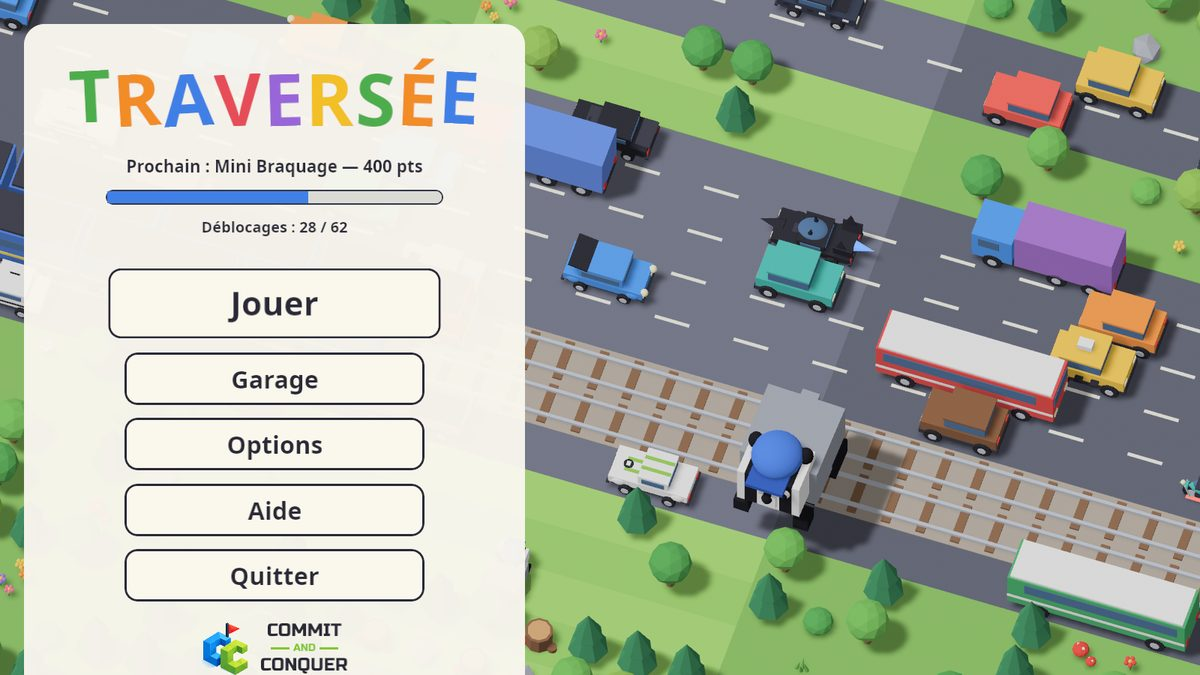
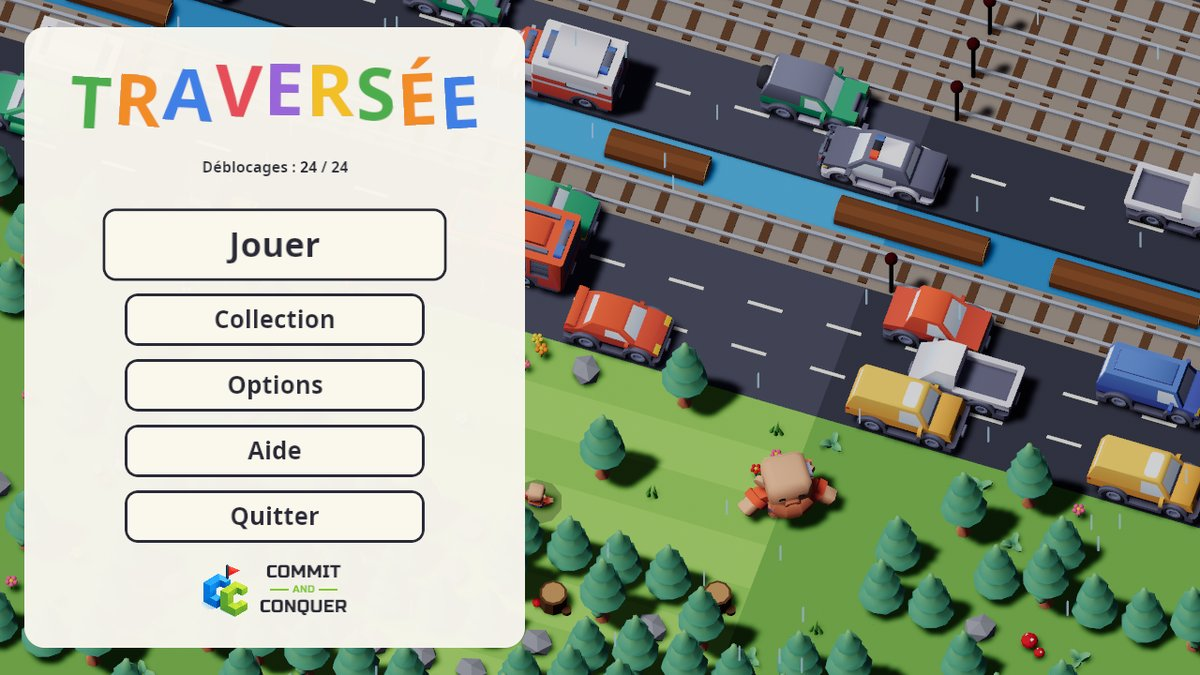
Site : captures de Traversée refaites avec le nouveau rendu (Kenney) ; fiche à jour (Collection, cadeaux, 5 mondes)

diff --git a/site/content/jeux/traversee.md b/site/content/jeux/traversee.md
@@ -1,7 +1,7 @@
 +++
 title = "Traversée"
 weight = 2
-description = "Aidez le crapaud à traverser routes, rivières et voies ferrées… et débloquez tout un garage."
+description = "Aidez votre personnage à traverser routes, rivières et voies ferrées… et remplissez votre collection."
 [extra]
 web = true
 univers = "croa"
@@ -12,38 +12,38 @@ commandes = ["Flèches ou ZQSD, Espace ou clic : avancer", "Tactile : glisser du
 chiffres = [
   { n = "11", t = "véhicules à débloquer" },
   { n = "8", t = "personnages" },
-  { n = "7", t = "accessoires" },
+  { n = "5", t = "mondes" },
   { n = "5", t = "façons de mourir" },
 ]
 captures = [
-  { img = "menu", t = "Le menu, vivant et animé" },
+  { img = "menu", t = "Le menu, avec son personnage qui saute" },
   { img = "route", t = "Routes, rivières, voies ferrées" },
   { img = "ecrase", t = "Chaque mort a son effet, avec zoom et ralenti" },
   { img = "noye", t = "Plouf !" },
-  { img = "mouche", t = "Gober une mouche : points bonus" },
-  { img = "garage", t = "Le garage : des véhicules à débloquer" },
-  { img = "personnages", t = "8 personnages" },
-  { img = "accessoires", t = "7 accessoires" },
-  { img = "costume", t = "En costume, c'est mieux" },
+  { img = "cadeau", t = "Un cadeau qui brille : points bonus" },
+  { img = "ennemis", t = "La Collection : les ennemis à débloquer" },
+  { img = "decors", t = "La Collection : les décors" },
+  { img = "personnages", t = "La Collection : les personnages" },
+  { img = "pirates", t = "La baie des pirates : canons, tonneaux et palmiers" },
+  { img = "halloween", t = "Halloween : cimetière et morts-vivants" },
+  { img = "moyenage", t = "Le Moyen Âge : machines de siège et tours" },
+  { img = "espace", t = "L'espace : vaisseaux, météorites et plateformes" },
 ]
 +++
 
-**Traversée** est un jeu de franchissement en 3D low-poly : un crapaud, des routes, des rivières, des voies ferrées, et une caméra qui avance toute seule. Allez le plus loin possible… sans traîner !
+**Traversée** est un jeu de franchissement en 3D low-poly : un personnage, des routes, des rivières, des voies ferrées, et une caméra qui avance toute seule. Allez le plus loin possible… sans traîner !
 
 ## Un monde qui se découvre
-Au début, la route est calme : quelques voitures, un peu d'herbe. À mesure que vos **points s'accumulent d'une partie à l'autre**, le jeu s'enrichit : camions, taxis, motos, bus, trains, mouches dorées, puis un **aigle** qui balaie une colonne entière. Tout se débloque : véhicules, personnages, accessoires.
+Au début, la route est calme : quelques voitures, un peu d'herbe. À mesure que vos **points s'accumulent d'une partie à l'autre**, le jeu s'enrichit : camions, taxis, motos, bus, trains, cadeaux dorés, puis un **aigle** qui balaie une colonne entière. Tout se débloque : ennemis, mondes, personnages.
 
-## Un garage à remplir
-Du taxi citron au tracteur, en passant par le bus rigolo et le train : chaque véhicule a un **nom bien à lui** et apparaît en ombre tant qu'il n'est pas gagné.
-
-## Personnages et accessoires
-Crapaud, lapin, blaireau, raton laveur, hérisson, renard, panda, canard : **8 personnages** à débloquer, puis **7 accessoires** (casquette, lunettes, haut-de-forme, chapeau de pirate, couronne, chapeau de fête, chapeau de magicien) pour les habiller.
+## Une collection à remplir
+Trois vitrines : les **ennemis** (du taxi citron au zombie, en passant par la catapulte et le vaisseau), les **décors** (prairie, baie des pirates, Halloween, Moyen Âge, espace) et les **personnages** : Léo, Lola, Gaston, Zoé, Hugo, Jade, Théo et Mila. Chacun apparaît en ombre tant qu'il n'est pas gagné.
 
 ## Des morts spectaculaires
 Écrasé, noyé, emporté par le courant, trop lent, enlevé par l'aigle : chaque fin a son effet, avec **zoom avant, ralenti, tremblement d'écran** et petits morceaux de décor qui volent.
 
 ## Et aussi
-Des mouches à gober pour des points bonus (les dorées valent bien plus), des fleurs, des rondins et des nénuphars, des rivières toujours franchissables, une annonce à chaque déblocage et un écran de fin qui compte vos points et votre record.
+Des **cadeaux qui brillent** à ramasser pour des points bonus (les dorés valent bien plus), des rondins, des radeaux et des nénuphars, des rivières toujours franchissables, une annonce à chaque déblocage et un écran de fin qui compte vos points et votre record.
 
 ## Nouveau look
-Le jeu se refait avec les superbes modèles **CC0 de Kenney** (voitures, arbres, personnages animés). La prairie, la **baie des pirates**, **Halloween** et le **Moyen Âge** sont déjà refaits ; les autres mondes reviendront un par un.
+Le jeu se refait avec les superbes modèles **CC0 de Kenney** (voitures, arbres, personnages animés). La prairie, la **baie des pirates**, **Halloween**, le **Moyen Âge** et l'**espace** sont déjà refaits ; les autres mondes reviendront un par un.

diff --git a/site/content/jeux/traversee.en.md b/site/content/jeux/traversee.en.md
@@ -1,7 +1,7 @@
 +++
 title = "Crossing"
 weight = 2
-description = "Help the toad cross roads, rivers and railways… and unlock a whole garage."
+description = "Help your character cross roads, rivers and railways… and fill your collection."
 [extra]
 web = true
 univers = "croa"
@@ -12,38 +12,38 @@ commandes = ["Arrow keys or WASD, Space or click: hop", "Touch: swipe", "M: soun
 chiffres = [
   { n = "11", t = "vehicles to unlock" },
   { n = "8", t = "characters" },
-  { n = "7", t = "accessories" },
+  { n = "5", t = "worlds" },
   { n = "5", t = "ways to lose" },
 ]
 captures = [
-  { img = "menu", t = "The animated menu" },
+  { img = "menu", t = "The menu, with its jumping character" },
   { img = "route", t = "Roads, rivers and railways" },
   { img = "ecrase", t = "Every death has its own effect, with zoom and slow-mo" },
   { img = "noye", t = "Splash!" },
-  { img = "mouche", t = "Catch a fly for bonus points" },
-  { img = "garage", t = "The garage: vehicles to unlock" },
-  { img = "personnages", t = "8 characters" },
-  { img = "accessoires", t = "7 accessories" },
-  { img = "costume", t = "Looking sharp in a costume" },
+  { img = "cadeau", t = "A glowing gift: bonus points" },
+  { img = "ennemis", t = "The Collection: enemies to unlock" },
+  { img = "decors", t = "The Collection: scenery" },
+  { img = "personnages", t = "The Collection: characters" },
+  { img = "pirates", t = "Pirate bay: cannons, barrels and palm trees" },
+  { img = "halloween", t = "Halloween: graveyard and undead" },
+  { img = "moyenage", t = "The Middle Ages: siege engines and towers" },
+  { img = "espace", t = "Space: ships, meteors and platforms" },
 ]
 +++
 
-**Crossing** is a low-poly 3D crossing game: a toad, roads, rivers, railways, and a camera that moves on its own. Go as far as you can… and don't dawdle!
+**Crossing** is a low-poly 3D crossing game: a character, roads, rivers, railways, and a camera that moves on its own. Go as far as you can… and don't dawdle!
 
 ## A world you uncover
-At first the road is quiet: a few cars, some grass. As your **points add up from game to game**, the game grows: trucks, taxis, motorbikes, buses, trains, golden flies, then an **eagle** sweeping a whole column. Everything unlocks: vehicles, characters, accessories.
+At first the road is quiet: a few cars, some grass. As your **points add up from game to game**, the game grows: trucks, taxis, motorbikes, buses, trains, golden gifts, then an **eagle** sweeping a whole column. Everything unlocks: enemies, worlds, characters.
 
-## A garage to fill
-From the lemon cab to the tractor, via the jolly bus and the train: every vehicle has its **own name** and shows as a silhouette until you win it.
-
-## Characters and accessories
-Toad, rabbit, badger, raccoon, hedgehog, fox, panda, duck: **8 characters** to unlock, then **7 accessories** (cap, shades, top hat, pirate hat, crown, party hat, wizard hat) to dress them up.
+## A collection to fill
+Three showcases: the **enemies** (from the lemon cab to the zombie, via the catapult and the spaceship), the **scenery** (meadow, pirate bay, Halloween, Middle Ages, space) and the **characters**: Leo, Lola, Gaston, Zoe, Hugo, Jade, Theo and Mila. Each shows as a silhouette until you win it.
 
 ## Spectacular deaths
 Squashed, drowned, swept away, too slow, snatched by the eagle: every ending has its own effect, with **zoom-in, slow motion, screen shake** and bits of scenery flying.
 
 ## And more
-Flies to catch for bonus points (golden ones are worth far more), flowers, logs and lily pads, rivers that can always be crossed, an announcement for every unlock and an end screen that counts up your points and your record.
+**Glowing gifts** to collect for bonus points (golden ones are worth far more), logs, rafts and lily pads, rivers that can always be crossed, an announcement for every unlock and an end screen that counts up your points and your record.
 
 ## New look
-The game is being rebuilt with Kenney's lovely **CC0 models** (cars, trees, animated characters). The meadow, the **pirate bay**, **Halloween** and the **Middle Ages** are done; the other worlds will return one by one.
+The game is being rebuilt with Kenney's lovely **CC0 models** (cars, trees, animated characters). The meadow, the **pirate bay**, **Halloween**, the **Middle Ages** and **space** are done; the other worlds will return one by one.
